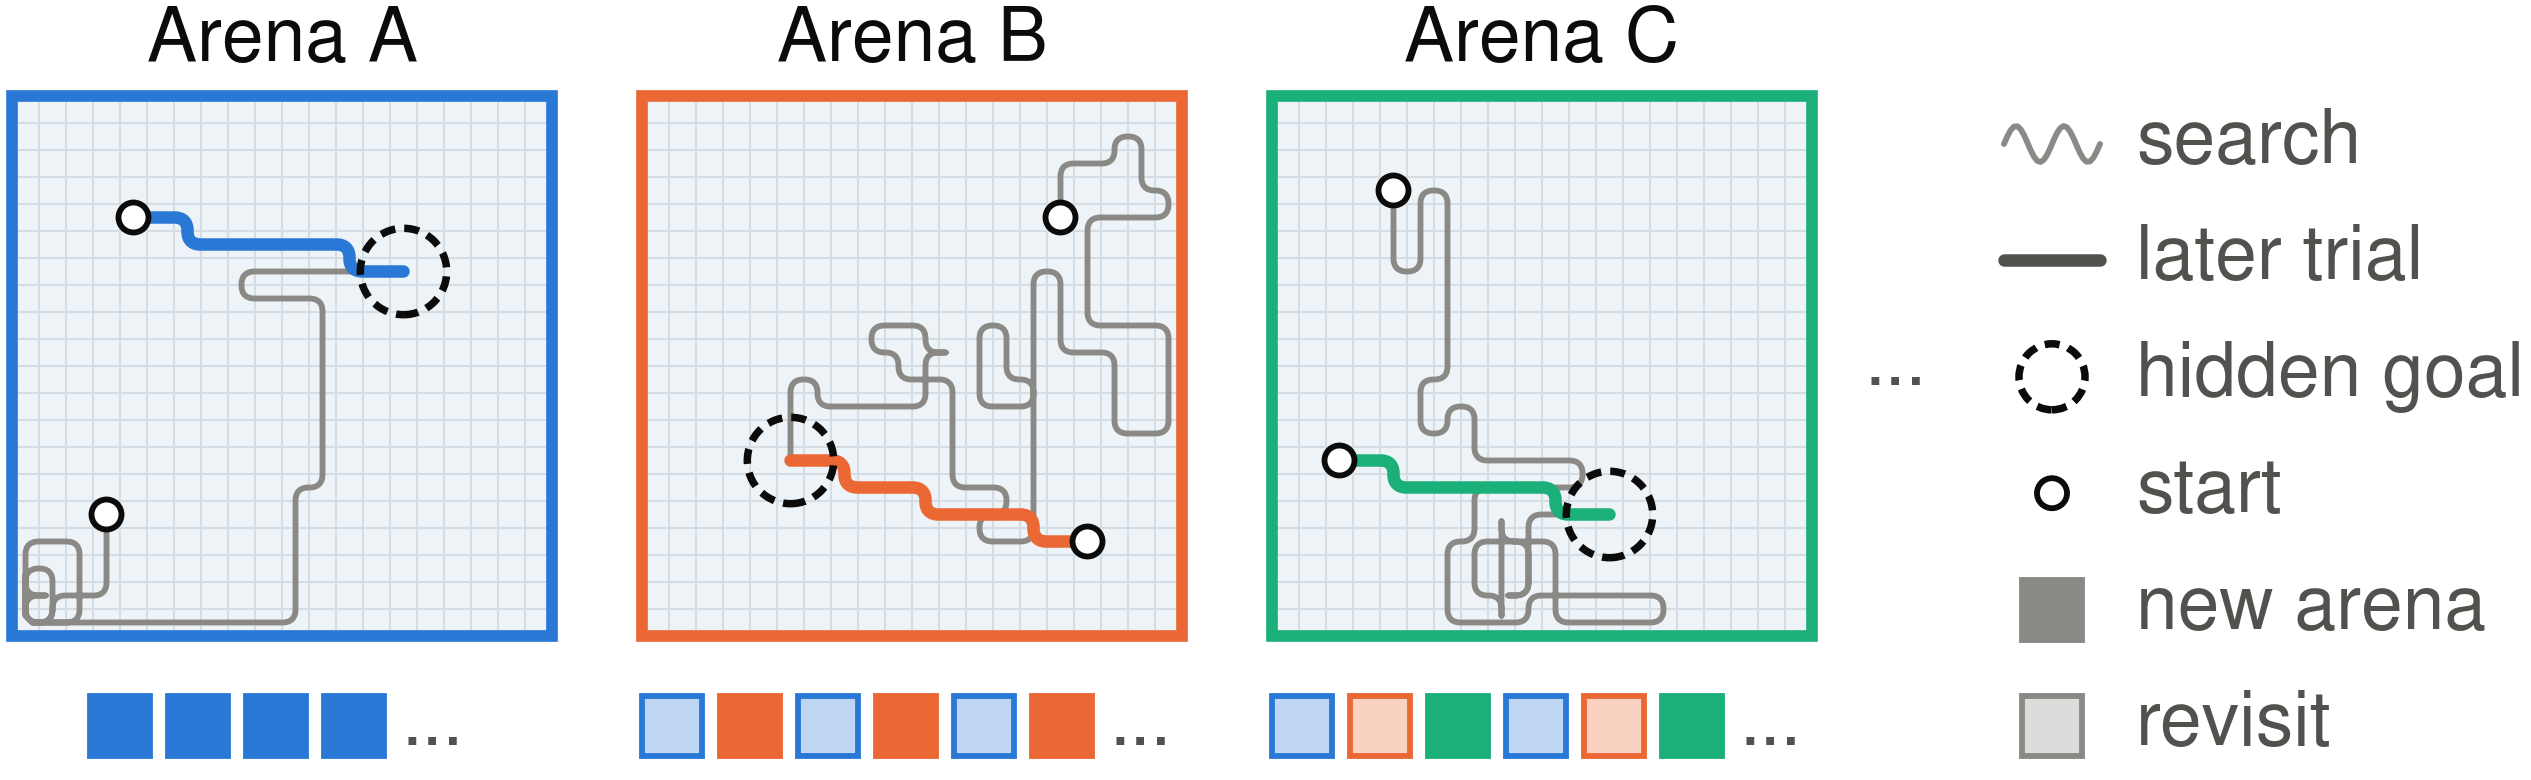
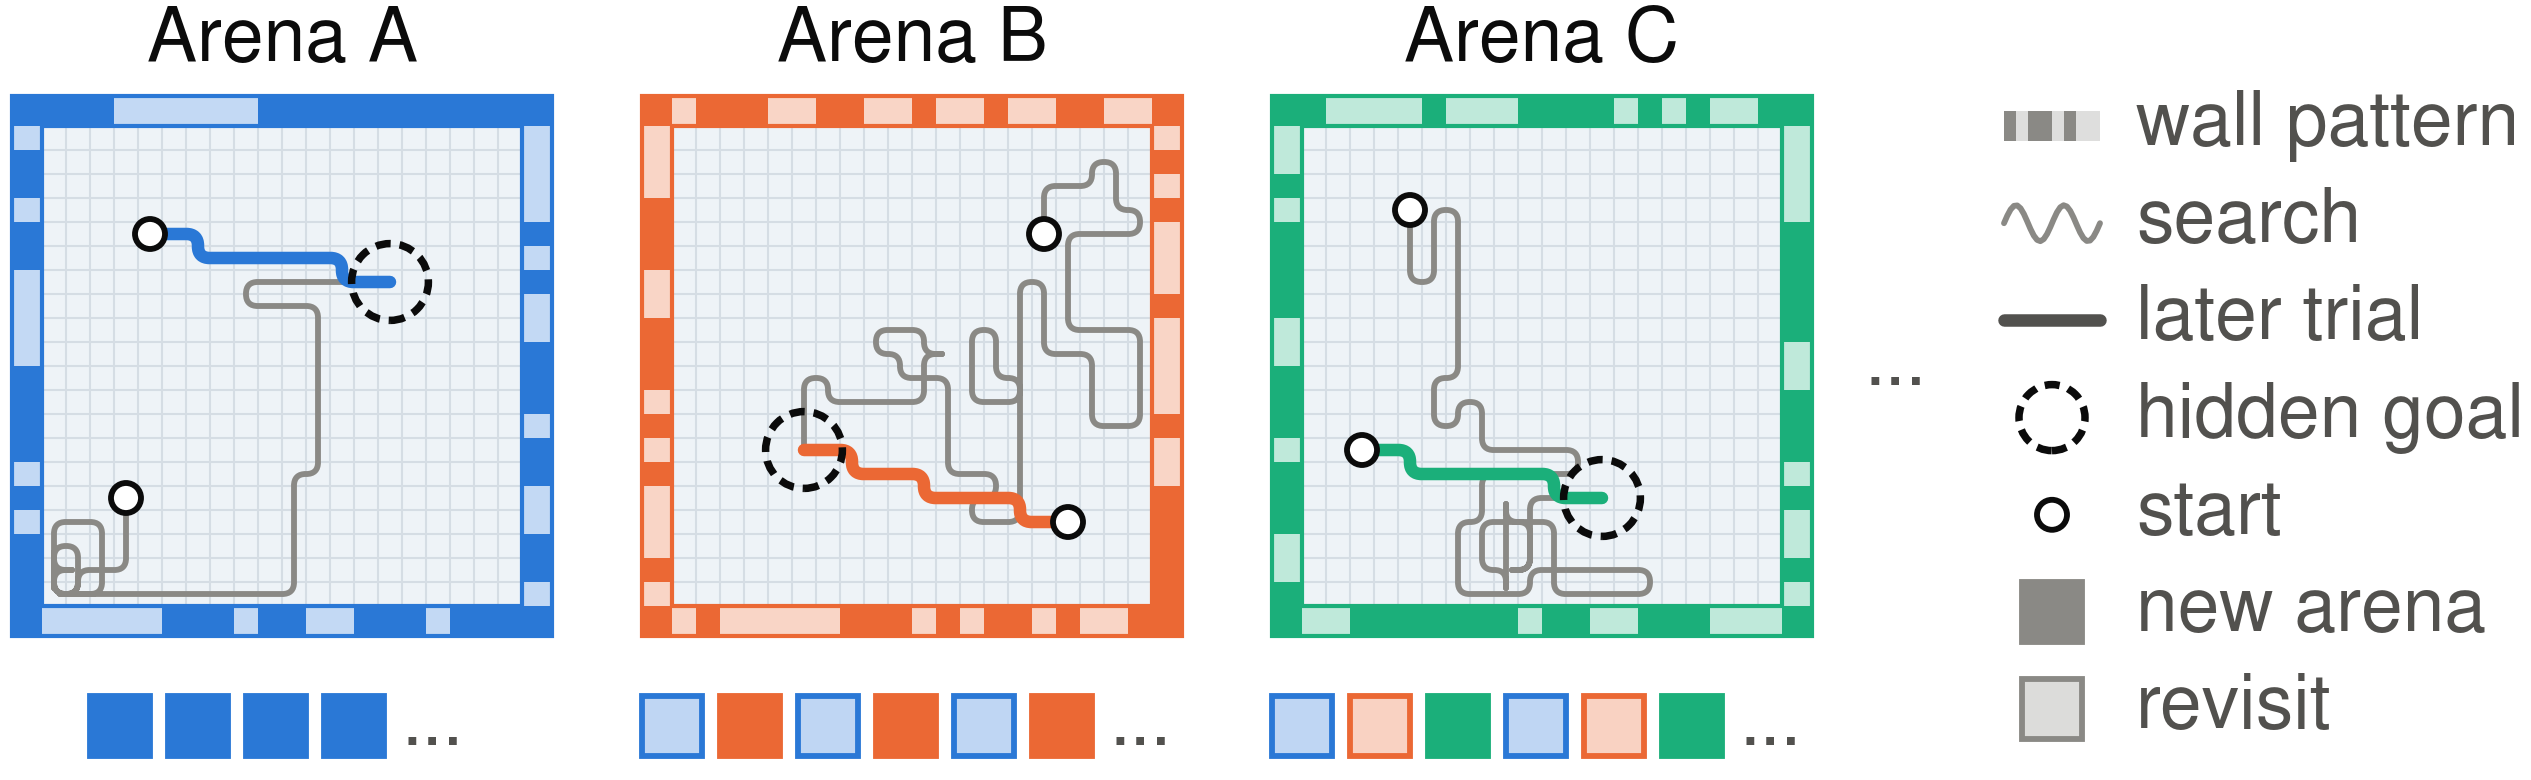
cosyne2027 fig 1: draw each arena's wall pattern
The arena frame is now the env's ±1 wall barcode (one segment per wall
cell, a separate random draw per arena), in the arena color and its tint,
so the figure shows that arenas differ only in their walls. Key and
caption name it. Size unchanged.

diff --git a/cosyne2027/fig1_task_schematic.py b/cosyne2027/fig1_task_schematic.py
@@ -4,14 +4,17 @@ Run: ~/.conda/envs/cls/bin/python cosyne2027/fig1_task_schematic.py
 
 Draws the task in hopfield_nav/evaluation/protocols.py, model-free: nothing
 here depends on how an agent solves it. Each column is one block. Top row:
-the arena introduced in that block, with its hidden goal, a first-trial
-search path and a later direct path. Bottom row: the block's trials in
+the arena introduced in that block, with its wall pattern, hidden goal, a
+first-trial search path and a later direct path. Bottom row: the block's trials in
 order. Block i runs one trial in every arena seen so far (A, then A B, then
 A B C, repeated); trials in earlier arenas are revisits.
 
 The paths are illustrations, not agent rollouts. They live on the real
 20x20 cell lattice: the search path is a novelty-seeking walk that ends at
-the goal, and the later path is a shortest 4-connected path.
+the goal, and the later path is a shortest 4-connected path. The wall
+pattern is the env's ±1 barcode (GridEnv._wall_code: one segment per wall
+cell, drawn per arena from its own rng). It is the only thing that tells
+arenas apart, so each arena gets its own draw here.
 """
 import matplotlib.pyplot as plt
 import numpy as np
@@ -38,6 +41,7 @@ ITERS_SHOWN = [4, 3, 2]         # iterations drawn per block before the '...'
 FIG_W, FIG_H = 4.18, 1.26
 MARGIN = 0.02                   # keeps edge strokes inside the canvas
 ARENA_SIDE = 0.9
+WALL = 0.05                     # wall-pattern band, inside ARENA_SIDE
 COL_X = [0.45, 1.5, 2.55]       # column centers
 ELLIPSIS_X = 3.14
 ARENA_Y0 = 0.22                 # arena bottom edge
@@ -46,7 +50,7 @@ TICK = 0.1
 TICK_GAP = 0.03
 DOTS_W = 0.15                   # room for the '...' after each block's ticks
 KEY_X = 3.32
-KEY_PITCH = 0.194
+KEY_PITCH = 0.162
 
 
 def search_path(start, goal, rng, max_steps=400):
@@ -108,22 +112,49 @@ def smooth(path, passes=3):
     return p
 
 
-def draw_arena(ax, cx, color, name, goal, s_start, d_start):
+def segment(ax, x, y, w, h, color, bit):
+    """One wall segment: +1 in the arena color, -1 in its tint."""
+    ax.add_patch(Rectangle((x, y), w, h, ec="none", zorder=5,
+                           fc=color if bit > 0 else style.tint(color, 0.72)))
+
+
+def draw_walls(ax, x0, y0, color, code):
+    """±1 barcode around the floor, one segment per wall cell, plus corners."""
+    inner = ARENA_SIDE - 2 * WALL
+    c = inner / ARENA_CELLS
+    far = x0 + WALL + inner, y0 + WALL + inner
+    for k in range(ARENA_CELLS):
+        segment(ax, x0 + WALL + k * c, far[1], c, WALL, color, code[0, k])
+        segment(ax, far[0], y0 + WALL + k * c, WALL, c, color, code[1, k])
+        segment(ax, x0 + WALL + k * c, y0, c, WALL, color, code[2, k])
+        segment(ax, x0, y0 + WALL + k * c, WALL, c, color, code[3, k])
+    for cx in (x0, far[0]):
+        for cy in (y0, far[1]):
+            ax.add_patch(Rectangle((cx, cy), WALL, WALL, fc=color, ec="none",
+                                   zorder=5))
+    for off, side in ((0, ARENA_SIDE), (WALL, inner)):   # outer, floor edge
+        ax.add_patch(Rectangle((x0 + off, y0 + off), side, side, fc="none",
+                               ec=color, lw=0.5, zorder=6))
+
+
+def draw_arena(ax, cx, color, name, goal, s_start, d_start, seed):
     x0, y0 = cx - ARENA_SIDE / 2, ARENA_Y0
-    c = ARENA_SIDE / ARENA_CELLS
-    ax.add_patch(Rectangle((x0, y0), ARENA_SIDE, ARENA_SIDE,
+    inner = ARENA_SIDE - 2 * WALL
+    c = inner / ARENA_CELLS
+    fx0, fy0 = x0 + WALL, y0 + WALL       # floor origin
+    ax.add_patch(Rectangle((fx0, fy0), inner, inner,
                            fc=style.WATER, ec="none", zorder=0))
     for k in range(1, ARENA_CELLS):
-        ax.plot([x0 + k * c] * 2, [y0, y0 + ARENA_SIDE],
+        ax.plot([fx0 + k * c] * 2, [fy0, fy0 + inner],
                 color=style.GRID, lw=0.25, zorder=1)
-        ax.plot([x0, x0 + ARENA_SIDE], [y0 + k * c] * 2,
+        ax.plot([fx0, fx0 + inner], [fy0 + k * c] * 2,
                 color=style.GRID, lw=0.25, zorder=1)
-    ax.add_patch(Rectangle((x0, y0), ARENA_SIDE, ARENA_SIDE,
-                           fc="none", ec=color, lw=1.4, zorder=5))
+    code = np.random.default_rng(seed).choice([-1, 1], size=(4, ARENA_CELLS))
+    draw_walls(ax, x0, y0, color, code)
 
     def xy(p):
         p = np.asarray(p, float)
-        return x0 + (p[..., 0] + 0.5) * c, y0 + (p[..., 1] + 0.5) * c
+        return fx0 + (p[..., 0] + 0.5) * c, fy0 + (p[..., 1] + 0.5) * c
 
     ax.plot(*xy(smooth(find_search_path(s_start, goal))),
             color=style.INK_MUTED, lw=0.7, zorder=2)
@@ -158,7 +189,15 @@ def draw_block(ax, i):
 
 def draw_key(ax):
     gx, tx = KEY_X, KEY_X + 0.22
-    y = ARENA_Y0 + ARENA_SIDE - 0.08 - KEY_PITCH * np.arange(6)
+    y = ARENA_Y0 + ARENA_SIDE - 0.05 - KEY_PITCH * np.arange(7)
+    for k, bit in enumerate([1, -1, 1, 1, -1, 1, -1, -1]):
+        segment(ax, gx + k * 0.02, y[0] - WALL / 2, 0.02, WALL,
+                style.INK_MUTED, bit)
+    labels = ["wall pattern", "search", "later trial", "hidden goal",
+              "start", "new arena", "revisit"]
+    for yy, label in zip(y, labels):
+        ax.text(tx, yy, label, va="center", color=style.INK_2)
+    y = y[1:]
 
     t = np.linspace(0, 1, 30)
     ax.plot(gx + 0.16 * t, y[0] + 0.03 * np.sin(t * 4 * np.pi),
@@ -171,10 +210,6 @@ def draw_key(ax):
     tick(ax, gx + 0.08 - TICK / 2, y[4], style.INK_MUTED, revisit=False)
     tick(ax, gx + 0.08 - TICK / 2, y[5], style.INK_MUTED, revisit=True)
 
-    labels = ["search", "later trial", "hidden goal", "start", "new arena",
-              "revisit"]
-    for yy, label in zip(y, labels):
-        ax.text(tx, yy, label, va="center", color=style.INK_2)
 
 
 def main():
@@ -187,7 +222,7 @@ def main():
 
     for i, (goal, s_start, d_start) in enumerate(ARENAS):
         draw_arena(ax, COL_X[i], style.ARENA_COLORS[i], NAMES[i],
-                   goal, s_start, d_start)
+                   goal, s_start, d_start, seed=i)
         draw_block(ax, i)
     ax.text(ELLIPSIS_X, ARENA_Y0 + ARENA_SIDE / 2, "...", ha="center",
             va="center", color=style.INK_2)

diff --git a/cosyne2027/README.md b/cosyne2027/README.md
@@ -23,8 +23,9 @@ Draft caption. Values in braces depend on which run the results figures use:
 `run_cl_ood.sh` uses 6 arenas, 40 iterations and 200 steps, and
 `run_agenthash.sh` uses 5, 200 and 100.
 
-> **Sequential water maze.** The agent meets {N} arenas, each 20x20 cells
-> with one hidden goal, one at a time. Each trial starts at a random cell
+> **Sequential water maze.** The agent meets {N} arenas one at a time.
+> Each is 20x20 cells with one hidden goal, and each has its own random
+> wall pattern, the only visual cue that tells arenas apart. Each trial starts at a random cell
 > and ends when the agent reaches the goal or after {max_steps} steps. In
 > block *i*, each of {iters} iterations runs one trial in every arena seen
 > so far; each column is one block, each square one trial. The first trial
